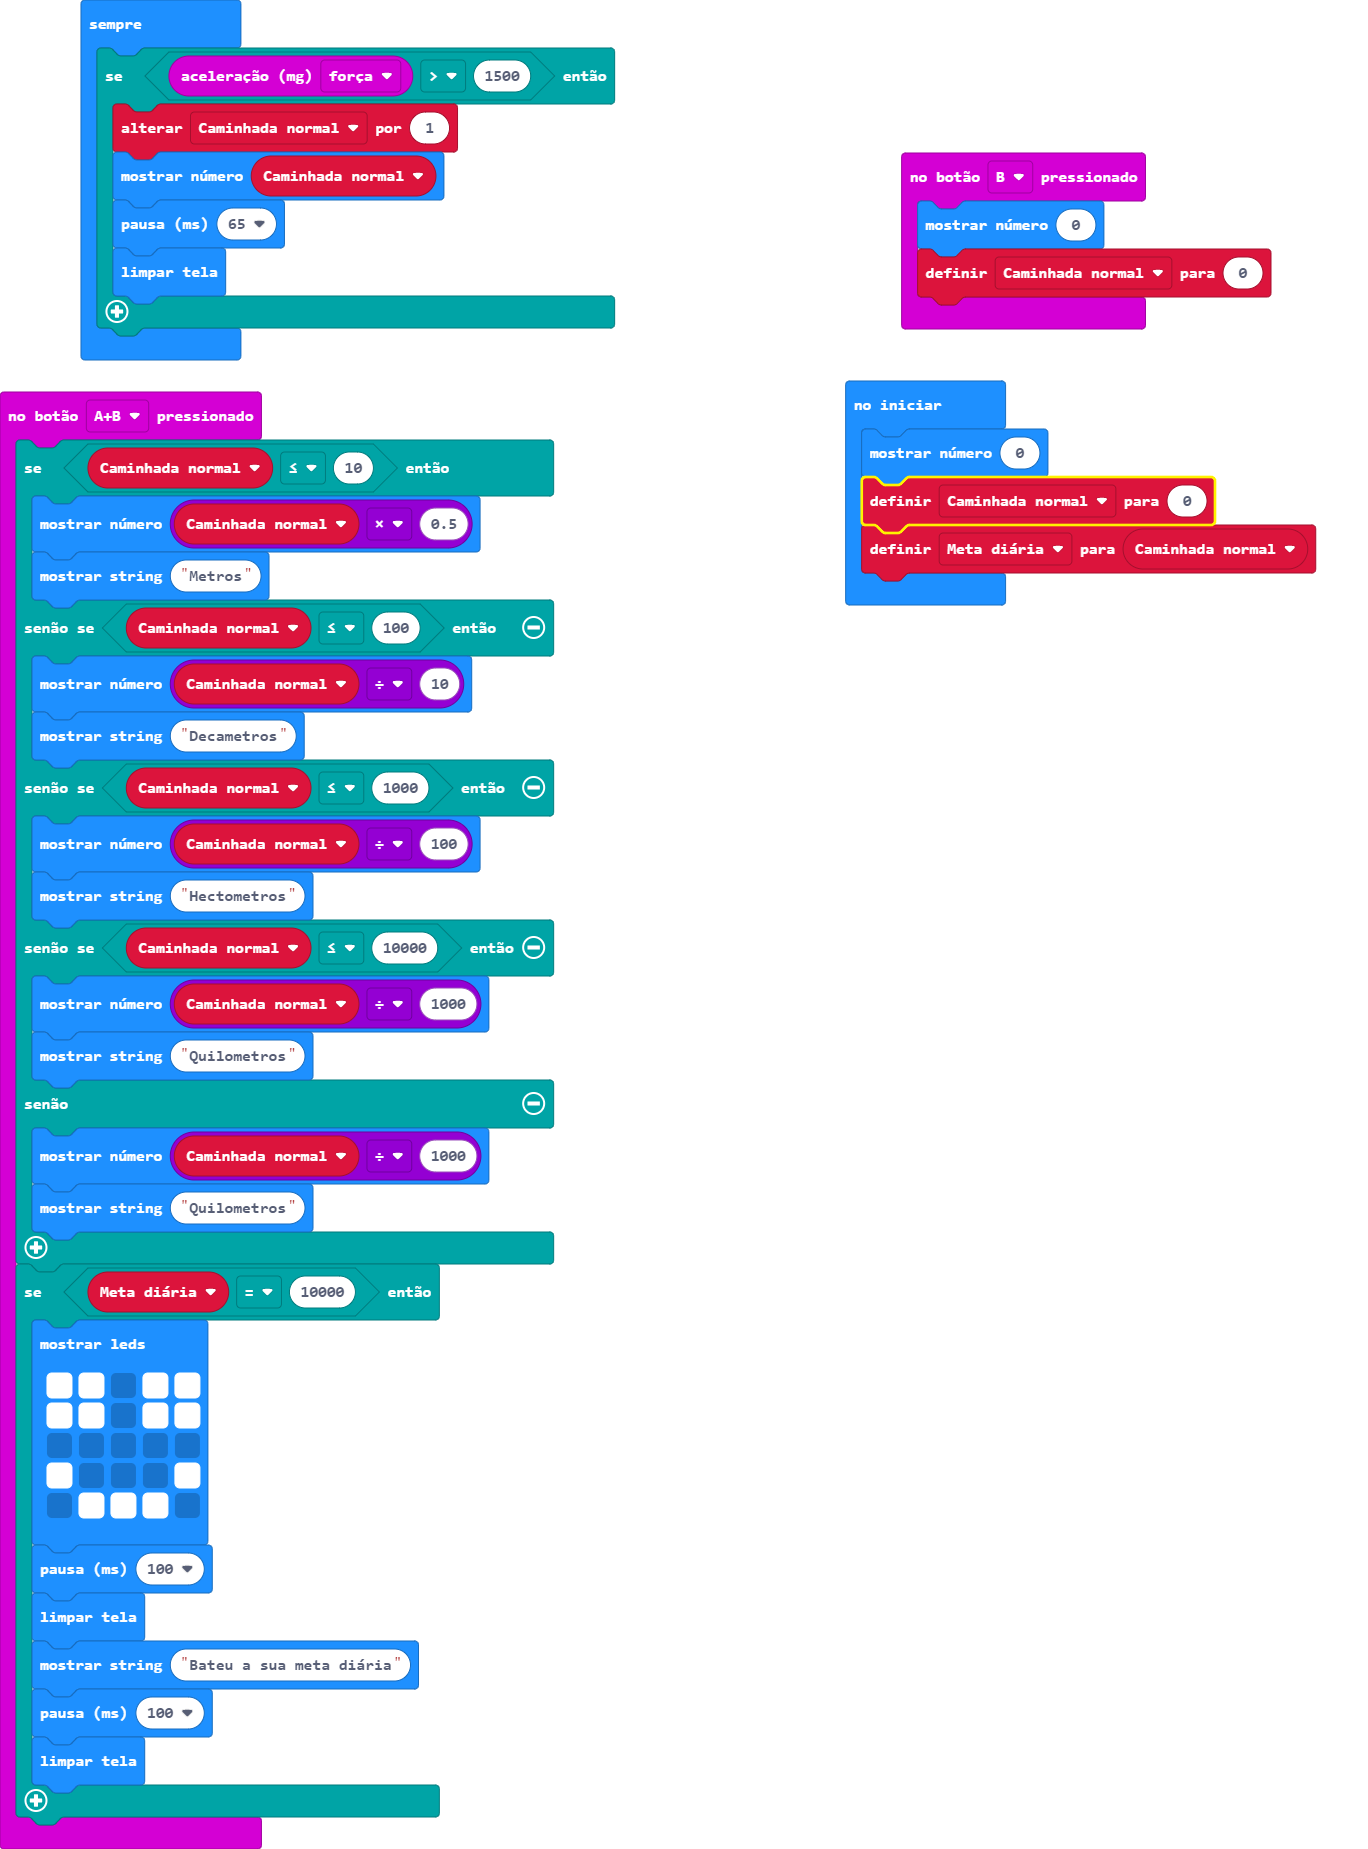
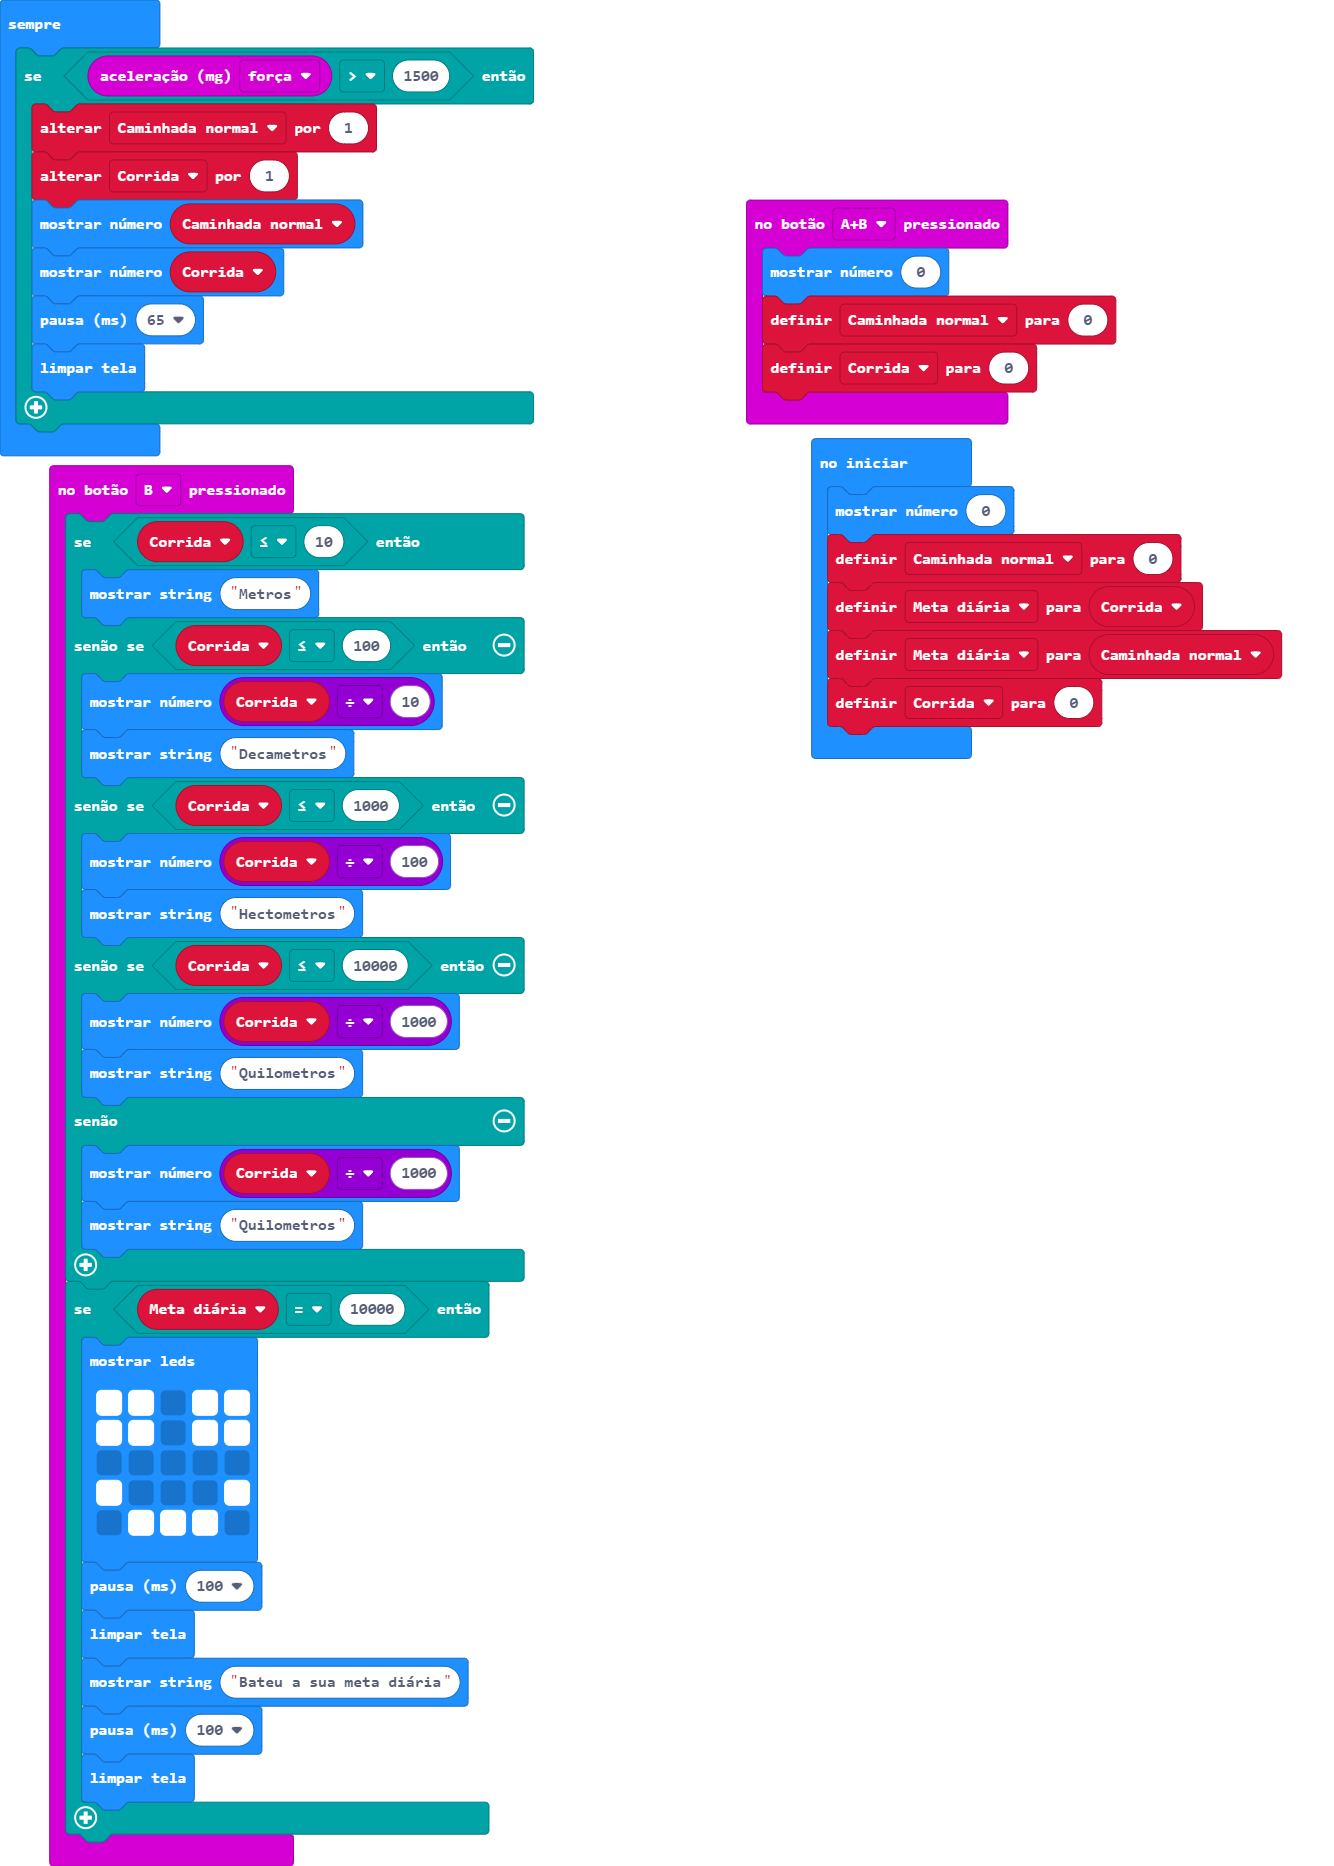
Update main.blocks, main.ts

Changed region(s): [[0.0, 0.0, 0.461, 1.0], [0.5532, 0.0617, 0.9835, 0.4316], [0.3073, 0.9557, 0.3688, 0.9865]]

diff --git a/main.ts b/main.ts
@@ -1,18 +1,22 @@
 input.onButtonPressed(Button.AB, function () {
-    if (Caminhada_normal <= 10) {
-        basic.showNumber(Caminhada_normal * 0.5)
+    basic.showNumber(0)
+    Caminhada_normal = 0
+    Corrida = 0
+})
+input.onButtonPressed(Button.B, function () {
+    if (Corrida <= 10) {
         basic.showString("Metros")
-    } else if (Caminhada_normal <= 100) {
-        basic.showNumber(Caminhada_normal / 10)
+    } else if (Corrida <= 100) {
+        basic.showNumber(Corrida / 10)
         basic.showString("Decametros")
-    } else if (Caminhada_normal <= 1000) {
-        basic.showNumber(Caminhada_normal / 100)
+    } else if (Corrida <= 1000) {
+        basic.showNumber(Corrida / 100)
         basic.showString("Hectometros")
-    } else if (Caminhada_normal <= 10000) {
-        basic.showNumber(Caminhada_normal / 1000)
+    } else if (Corrida <= 10000) {
+        basic.showNumber(Corrida / 1000)
         basic.showString("Quilometros")
     } else {
-        basic.showNumber(Caminhada_normal / 1000)
+        basic.showNumber(Corrida / 1000)
         basic.showString("Quilometros")
     }
     if (Meta_diária == 10000) {
@@ -30,19 +34,20 @@ input.onButtonPressed(Button.AB, function () {
         basic.clearScreen()
     }
 })
-input.onButtonPressed(Button.B, function () {
-    basic.showNumber(0)
-    Caminhada_normal = 0
-})
+let Corrida = 0
 let Meta_diária = 0
 let Caminhada_normal = 0
 basic.showNumber(0)
 Caminhada_normal = 0
+Meta_diária = Corrida
 Meta_diária = Caminhada_normal
+Corrida = 0
 basic.forever(function () {
     if (input.acceleration(Dimension.Strength) > 1500) {
         Caminhada_normal += 1
+        Corrida += 1
         basic.showNumber(Caminhada_normal)
+        basic.showNumber(Corrida)
         basic.pause(65)
         basic.clearScreen()
     }
